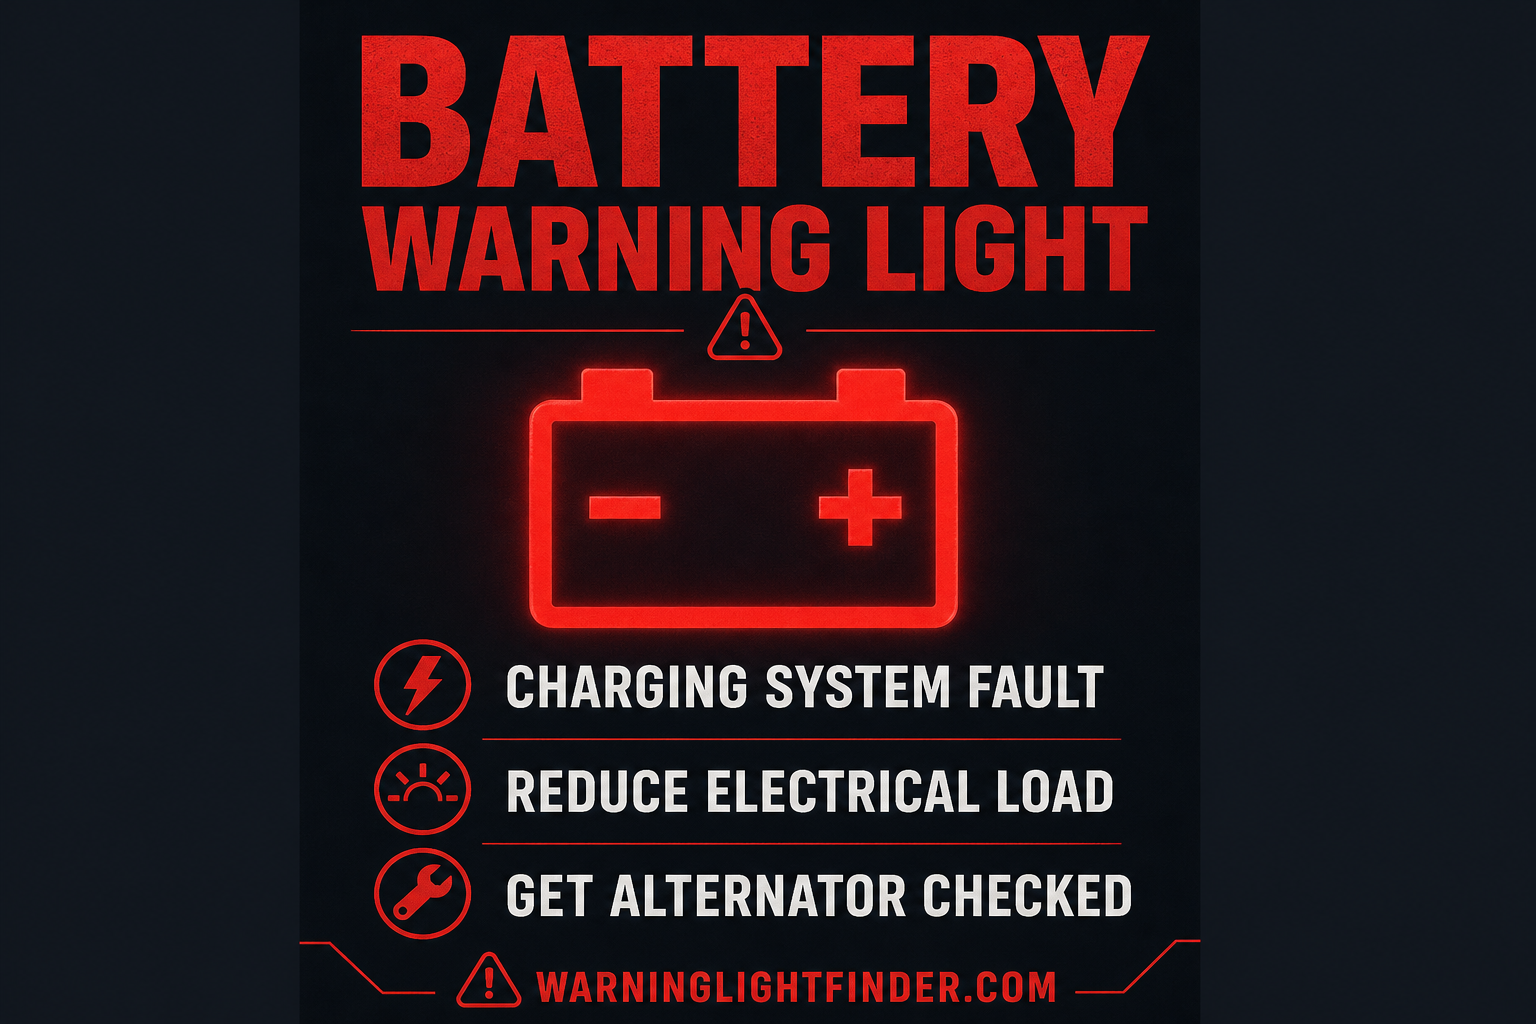
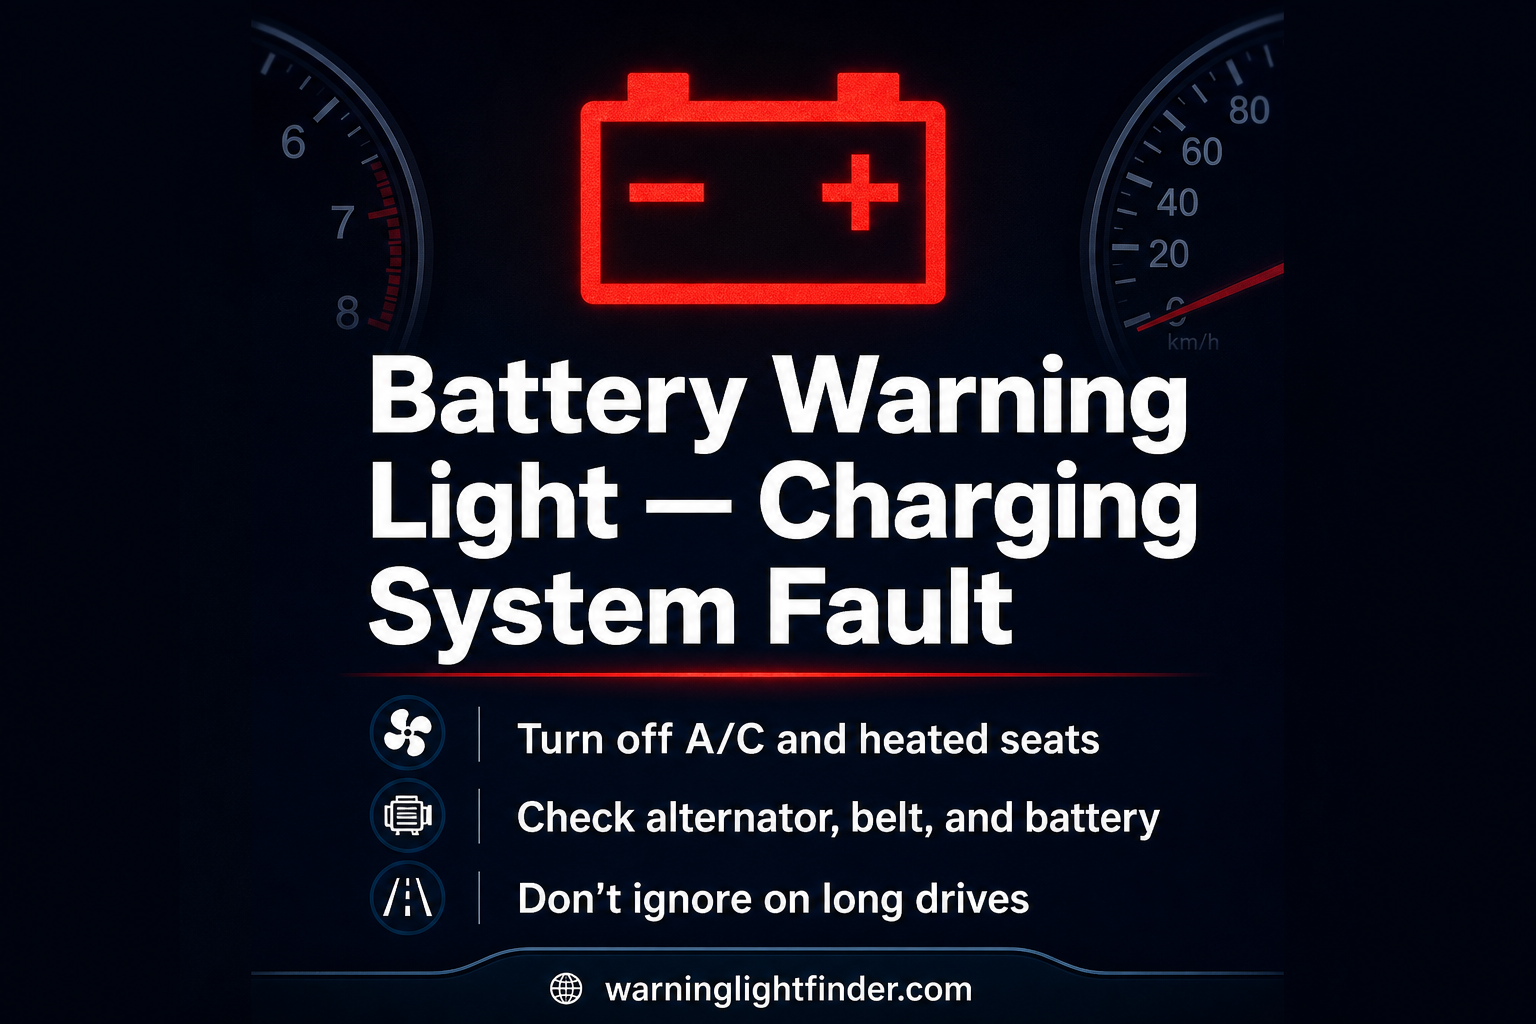
Tune TC page meta description and add battery Pinterest pin asset.

Changed region(s): [[0.1875, 0.0312, 0.8438, 1.0], [0.8125, 0.25, 0.8438, 0.2812], [0.8125, 0.0, 0.8438, 0.0312]]

diff --git a/lib/guides.ts b/lib/guides.ts
@@ -523,7 +523,7 @@ export const guides: SymbolGuide[] = [
     symbolSlug: "traction-control-light",
     title: "Traction Control Light Meaning — Car With Squiggly Lines Symbol",
     metaDescription:
-      "The traction control light often shows a car with squiggly or wavy lines underneath. Learn what the TC / skid light means when it flashes vs stays on, and what to check first.",
+      "Traction control light meaning — squiggly-lines car symbol on your dashboard. Flashing vs steady TC light: causes, what to check first, and when it's safe to drive.",
     eyebrow: "Stability system warning",
     h1: "Traction Control Light Meaning",
     summary:

diff --git a/marketing/reddit-quora/paste-today.md b/marketing/reddit-quora/paste-today.md
@@ -20,6 +20,7 @@
 | **Reddit #7 — 2018 Honda Fit 多灯** | **06-25** | 首条评论；链 two-warning-lights + lights-on-at-startup |
 | **Pinterest Pin 4 — 刹车灯** | **06-25** | 已发布；链 brake-warning-light 页 |
 | **GSC 全站 7d 复盘** | **07-06** | 402 展示 / 0 点击 / 排名 22.7；见下方快照 |
+| **TC 页 meta description 微调** | **07-06** | title 未动；针对 CTR / 查询词优化 |
 
 ---
 
@@ -208,10 +209,9 @@
 
 | 优先级 | 事项 |
 |--------|------|
-| **1** | **Pinterest Pin 5** — 电瓶灯（`captions.md`，配合 battery 词起量） |
-| **2** | 可选 **Quora #8** — `traction control light meaning` 或 battery 相关问题 |
-| **3** | 若决定动站内：只试 **TC 页 meta**（1 处），油压/CEL 不动 |
-| **4** | 下周再查 GSC 7d 点击是否恢复 |
+| **1** | **Pinterest Pin 5** — 配图已生成，待发布（`marketing/pinterest/pinterest-battery-warning-light.png`） |
+| **2** | **TC meta 已改** — 等 2 周看 GSC CTR，勿再动 title |
+| **3** | 可选 **Quora #8** — battery 或 TC 相关问题 |
 
 ### 本周站外节奏
 

diff --git a/marketing/pinterest/captions.md b/marketing/pinterest/captions.md
@@ -129,10 +129,11 @@ Symbols vary by make/model — confirm with your owner’s manual.
 
 ---
 
-## Pin 5 — Battery Warning Light
+## Pin 5 — Battery Warning Light ✅ 配图就绪（2026-07-06，待发布）
 
 **File:** `pinterest-battery-warning-light.png`  
-**Destination link:** https://warninglightfinder.com/symbols/battery-warning-light/
+**Destination link:** https://warninglightfinder.com/symbols/battery-warning-light/  
+**Board:** Car Tips & Dashboard Warning Lights
 
 **Title:**
 ```